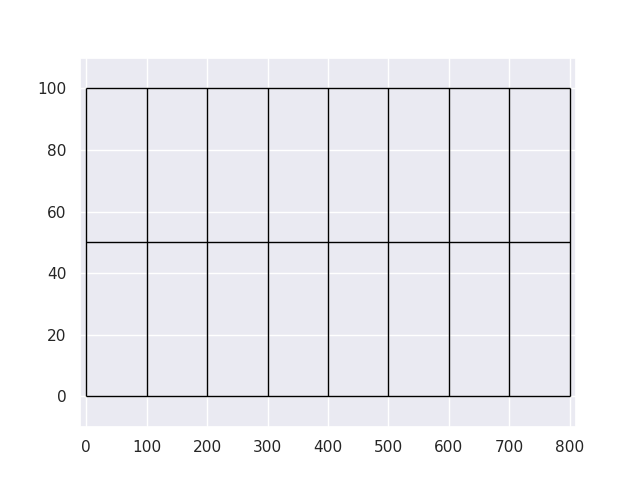
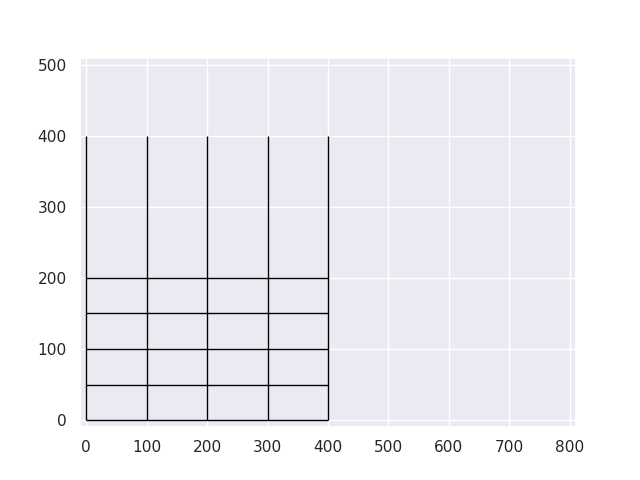
hmm

diff --git a/main.py b/main.py
@@ -66,49 +66,51 @@ def get_input_vector(pixels, nx, ny):
 
 
 
-def create_line_box():
+def create_grid_line_box(n_lanes, n_neurons_per_lane):
+
     '''
-    Creates a list cotaining the lines of a grid
-        - Could maybe get them from the number of lanes instead of lines
-            - n_lanes and n_neurons maybe
-        - Must have an automatic correspondance to the number of input neurons
+    Creates a list containing the lines of a grid
+
+    -----------------------------------------------------------------
+    Parameter               : Type          | Description 
+    -----------------------------------------------------------------
+
+        n_lanes             : integer       | number of car lanes
+        n_neurons_per_lane  : integer       | neurons per car lane
+
     '''
 
-    n_vertical = 9              # number of vertical lines (first and last line might not show)
-    n_horizontal = 3            # number of horizontal lines
+    n_vertical_lines   = n_neurons_per_lane + 1
+    n_horizontal_lines = n_lanes + 1
 
-    stepx = 100 
-    stepy = 50
+    spacex = 100                            # horizontal cell space 
+    spacey = 50                             # vertical cell space
+
+    startx = 0                              # left vertical edge
+    starty = 0                              # top horizontal edge
+
+    endx = spacex*n_neurons_per_lane        # right vertical edge
+    endy = spacex*n_lanes                   # bottom horizontal edge 
 
     line_box = []
 
     # Generating vertical lines:
-    for i in range(n_vertical):
+    for i in range(n_vertical_lines):
 
-        x = stepx*i
+        x = spacex*i
 
-        y1 = 0
-        y2 = 100
-
-        line = [(x,y1), (x, y2)]
-
+        line = [(x, starty), (x, endy)]
         line_box.append(line)
 
     # Generating horizontal lines:
-    for i in range(n_horizontal):
+    for i in range(n_horizontal_lines):
 
-        y = stepy*i
+        y = spacey*i
 
-        x1 = 0
-        x2 = 800
-
-        line = [(x1,y), (x2, y)]
-
+        line = [(startx, y), (endx, y)]
         line_box.append(line)
 
-    line_box = np.array(line_box)
-
-    return line_box
+    return np.array(line_box)
 
 
 
@@ -118,24 +120,29 @@ def plot_grid(ax, line_box):
     ax.add_collection(lc) 
 
     ax.set_xlim([-10, 810]) 
-    ax.set_ylim([-10, 110]) 
+    ax.set_ylim([-10, 510]) 
     return
 
 
 
 def main():
 
+
+    #----------------------
+    # Hyper parameters:
+    n_lanes = 4
+    n_neurons_per_lane = 4
+
+
     #----------------------
     # Get game:
     game = CarGame()
 
-    line_box = create_line_box()
-    line_box = np.array(line_box)
+    line_box = create_grid_line_box(n_lanes, n_neurons_per_lane)
         
     fig, ax = plt.subplots()
-
-
     plot_grid(ax, line_box)
+
     plt.savefig('testfig.png')
 
     
